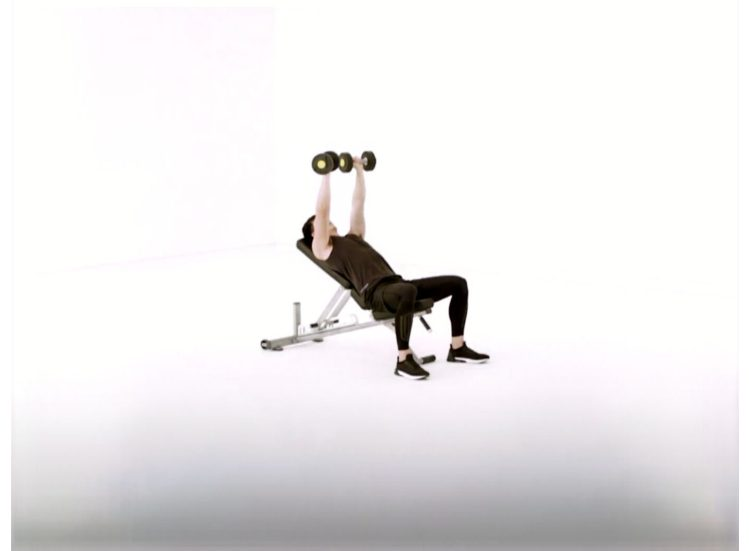
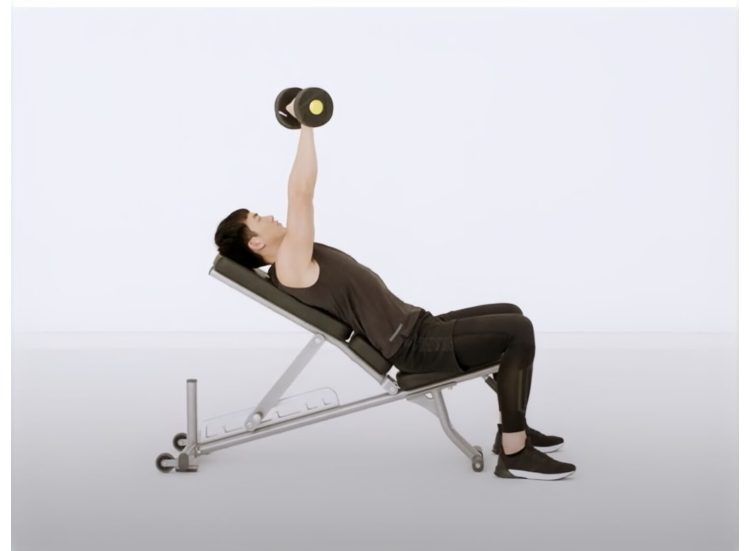
feat(fitness): 五项改进——①图片精选为≤4张（2角度×高低点）②播放器展示全量要点+锻炼部位 ③新增上个动作按钮 ④组间休息秒表化可跳过+组进度圆点 ⑤热身拉伸按原文件补全细化

diff --git a/templates/fitness.html b/templates/fitness.html
@@ -28,9 +28,16 @@
 #animCv{ width:min(90vw,420px); height:300px; background:#1e2236; border-radius:14px; }
 #animImg{ width:min(90vw,420px); height:300px; object-fit:contain; background:#fff; border-radius:14px; display:none; transition:opacity .25s; }
 .p-exname{ font-size:22px; font-weight:700; margin:10px 0 2px; }
+.p-muscle{ font-size:14px; color:#8fd3ff; margin-bottom:2px; }
 .p-setinfo{ font-size:15px; color:#aab; }
+.p-dots{ display:flex; gap:6px; margin:4px 0; }
+.p-dots i{ width:12px; height:12px; border-radius:50%; background:#3a4066; }
+.p-dots i.done{ background:#7ee2a8; }
+.p-dots i.cur{ background:#ffd66b; }
 .p-big{ font-size:56px; font-weight:800; font-variant-numeric:tabular-nums; margin:2px 0; color:#ffd66b; }
-.p-tip{ max-width:520px; font-size:13.5px; color:#cdd3f0; background:#232842; border-radius:8px; padding:8px 12px; margin:6px 0; min-height:38px; text-align:center; }
+.p-tip{ max-width:520px; width:min(92vw,520px); font-size:13.5px; color:#cdd3f0; background:#232842; border-radius:8px; padding:10px 14px; margin:6px 0; max-height:150px; overflow-y:auto; text-align:left; line-height:1.9; }
+.p-tip b{ color:#8fd3ff; }
+.p-tip .warn{ color:#ffb4b4; }
 .p-controls{ display:flex; gap:10px; margin:10px 0; flex-wrap:wrap; justify-content:center; }
 .p-controls button{ padding:10px 20px; border:none; border-radius:10px; font-size:15px; cursor:pointer; background:var(--brand); color:#fff; }
 .p-controls button.ghost{ background:#3a4066; }
@@ -68,7 +75,9 @@
 <!-- 跟练播放器 -->
 <div id="player">
     <div class="p-exname" id="pName"></div>
+    <div class="p-muscle" id="pMuscle"></div>
     <div class="p-setinfo" id="pSet"></div>
+    <div class="p-dots" id="pDots"></div>
     <canvas id="animCv" width="840" height="600"></canvas>
     <img id="animImg" alt="动作演示">
     <div class="p-big" id="pBig"></div>
@@ -76,6 +85,7 @@
     <div class="p-tip" id="pTip"></div>
     <div class="p-next" id="pNext"></div>
     <div class="p-controls">
+        <button class="ghost" id="pPrev">« 上个动作</button>
         <button class="ghost" id="pPause">⏸ 暂停</button>
         <button id="pDone">✓ 完成本组</button>
         <button class="ghost" id="pSkip">跳过动作 »</button>
@@ -210,7 +220,7 @@ var TMPL={
     pallof:     {view:'side',frames:[{hipH:1,torso:4,thigh:0,shin:6,arm:60,fore:80},{hipH:1,torso:4,thigh:0,shin:6,arm:88,fore:4}]}
 };
 /* 官方 3D 演示图（Keep 截图帧，static/img/fitness/），有图的动作优先用图，没有的回退火柴人 */
-var IMGCOUNT={bench:3,incline:5,press:4,lat:6,pushdown:5,plank:1,sideplank:1,facepull:4,
+var IMGCOUNT={bench:3,incline:4,press:4,lat:4,pushdown:4,plank:1,sideplank:1,facepull:4,
               curl:4,hammer:4,squat:2,rdl:2,lunge:4,hipthrust:2,calf:2,crunch:4,legraise:2,pallof:4};
 var imgTimer=null, imgFrame=0, imgKey=null;
 function startImgCycle(key){
@@ -252,8 +262,26 @@ function animLoop(){
 
 /* ================= 计划数据（摘自训练计划文档） =================
  * sets 组数, reps "8-10" 或 time 秒（计时类）, rest 组间休息秒, tmpl 动画模板 */
+var WARMUP_COMMON={
+  list:['跑步机快走 5 分钟（坡度 3–5、速度 5–6 km/h），微微出汗即可',
+        '关节活动：肩环绕 ×10、手臂画圈 ×10、髋部环绕 ×10、手腕与踝关节各活动 20 秒',
+        '动态拉伸：弓步转体每侧 ×5、站姿体侧屈每侧 ×5（训练前不要静态压腿，会降低力量输出）',
+        '目标肌群预组：当天第一个动作用空杆或 50% 重量做 1–2 组 × 10 次，再进入正式组'],
+  pits:['不要跳过热身直接上大重量——冬季或早晨肌肉关节温度低，受伤概率明显上升',
+        '热身不是训练，预组做到"身体热起来"就停，不要提前消耗体力',
+        '完成通用热身后，接着做当天的课前针对性预热，再进入正式组']};
 var DAYS=[
-{ id:'push', name:'周一 · 推日', sub:'胸 / 肩前中束 / 三头 + 核心', warm:'课前预热：肩环绕×10、弹力带肩外旋×15、弓步转体每侧×5、空杆卧推×15', cool:'课后拉伸：门框胸肌拉伸、肩前束拉伸、过头三头拉伸、眼镜蛇式腹部拉伸（每个 20–30 秒 × 2 组）', exs:[
+{ id:'push', name:'周一 · 推日', sub:'胸 / 肩前中束 / 三头 + 核心',
+  warmL:['肩部激活：肩环绕 ×10，再做徒手或弹力带肩外旋 ×15——推类动作对肩关节压力大，肩袖必须先唤醒',
+         '胸椎活动：弓步转体每侧 ×5，让上背部能挺得起来',
+         '预组：空杆卧推 ×15，再用正式重量的 50% 做 ×8，然后才进入正式组'],
+  coolL:['门框胸肌拉伸：前臂抵住门框或龙门架立柱，身体缓慢向前转，感受胸部牵拉',
+         '肩前束拉伸：双手在背后交扣，挺胸、手臂缓慢上抬',
+         '过头三头拉伸：一手屈肘放到颈后，另一手轻压肘部，感受手臂后侧牵拉',
+         '腹部拉伸：俯卧撑起上半身（眼镜蛇式），放松腹直肌'],
+  coolP:['拉伸到"有明显牵拉感"即可，不要弹震式下压、更不要追求疼痛',
+         '全程保持自然呼吸，憋气会让肌肉更紧张',
+         '静态拉伸只在训练后做——训练前做反而会降低力量表现'], exs:[
     {name:'平板杠铃卧推', imgs:'bench', tmpl:'bench', sets:4, reps:'8-10', rest:105, focus:'胸大肌整体，附带前肩、三头', keep:'杠铃平板卧推',
      tips:['眼睛位于杠铃正下方，双脚踩实、臀部贴凳','握距略宽于肩，重量压掌根','起杠先沉肩收紧肩胛，全程不松','下放到乳头附近，肘与躯干 45–60°','推起呼气，顶端不锁死肘'],
      pits:['手腕后折是腕痛主因','肩胛松开肩前送 = 肩痛头号原因','弹胸借力、臀部离凳就减重','无人保护不上极限重量，换史密斯架']},
@@ -279,7 +307,16 @@ var DAYS=[
      tips:['肘在肩正下方，身体侧向一条线','髋部上顶不下沉','两侧时间一致，弱侧先做'],
      pits:['髋下沉 → 侧腹不受力','身体前后倒 → 先屈膝版','支撑侧耸肩']}
 ]},
-{ id:'pull', name:'周三 · 拉日', sub:'背 / 肩后束 / 二头 + 核心', warm:'课前预热：肩胛引体×8–10、猫式伸展×8、轻重量高位下拉×12', cool:'课后拉伸：背阔肌拉伸、上背"抱自己"拉伸、二头拉伸、婴儿式 30 秒', exs:[
+{ id:'pull', name:'周三 · 拉日', sub:'背 / 肩后束 / 二头 + 核心',
+  warmL:['肩胛引体：吊在引体杆上手臂保持伸直，只做肩胛骨的下沉和上提 ×8–10——先学会"沉肩启动"，下拉和划船的质量都靠它',
+         '猫式伸展 ×8，活动脊柱，为俯身划船做准备',
+         '预组：轻重量高位下拉 1–2 组 ×12，找到背部发力感再加重'],
+  coolL:['背阔肌拉伸：单手扶住龙门架立柱，身体向后坐、向对侧倾，感受腋下到腰侧的牵拉',
+         '上背拉伸：双臂前伸"抱住自己"，肩胛骨尽量撑开，低头含胸',
+         '二头肌拉伸：手臂向后伸直扶住固定物、掌心向下，身体缓慢前转',
+         '婴儿式：跪坐、双臂前伸贴地，放松下背 30 秒'],
+  coolP:['拉伸到"有明显牵拉感"即可，不要弹震、不要忍痛硬压',
+         '婴儿式时腰部若被压得不适，可把双膝分开、臀部不必坐到底'], exs:[
     {name:'高位下拉', tmpl:'pulldown', sets:4, reps:'8-12', rest:105, focus:'背阔肌，加宽后背', keep:'高位下拉',
      tips:['大腿卡稳挡垫，握距约肩宽 1.5 倍','先沉肩再用背发力拉至锁骨上方','后仰不超过 15°，回放 2–3 秒','进阶可用辅助引体替代 1–2 组'],
      pits:['后仰甩成坐姿划船 → 背刺激减半','拉到颈后坚决不做','不沉肩纯用手臂拽','回放完全松掉']},
@@ -305,7 +342,18 @@ var DAYS=[
      tips:['髋部上顶不下沉','两侧时间一致，弱侧先做'],
      pits:['髋下沉是最常见错误','支撑侧耸肩']}
 ]},
-{ id:'legs', name:'周五 · 腿 + 核心', sub:'股四头 / 臀 / 腘绳 / 小腿 / 腹', warm:'课前预热：髋部环绕×10、弓步压髋每侧×8、徒手深蹲×15、臀桥×12、空杆深蹲×10', cool:'课后拉伸：股四头拉伸、体前屈腘绳拉伸、仰卧 4 字臀拉、推墙小腿拉伸、眼镜蛇式（每个 20–30 秒 × 2 组）', exs:[
+{ id:'legs', name:'周五 · 腿 + 核心', sub:'股四头 / 臀 / 腘绳 / 小腿 / 腹',
+  warmL:['髋部激活：髋部环绕 ×10、弓步压髋每侧 ×8——深蹲硬拉都需要髋关节充分打开',
+         '臀肌唤醒：徒手深蹲 ×15、臀桥 ×12，先让臀大肌"上线"，避免深蹲时全靠大腿前侧',
+         '预组：空杆深蹲 1–2 组 ×10，确认动作轨迹和膝盖方向后再加重'],
+  coolL:['站姿股四头肌拉伸：单腿后勾、手抓脚踝，膝盖并拢朝下，扶墙保持平衡，每侧',
+         '腘绳肌拉伸：站姿或坐姿体前屈，腰背挺直、从髋部折叠，不要弓腰硬够脚尖',
+         '仰卧"4 字"臀部拉伸：一侧脚踝搭在另一侧膝盖上，双手抱大腿拉近胸口，每侧',
+         '推墙小腿拉伸：前腿弓步、后腿伸直脚跟踩地，身体前倾推墙，每侧',
+         '眼镜蛇式腹部拉伸 20–30 秒，放松卷腹和举腿后的腹肌'],
+  coolP:['练腿日第二天的延迟性酸痛（DOMS）通常最明显，认真做完这组拉伸能明显缓解，不要省略',
+         '股四头拉伸时膝盖不要向外撇，双腿膝盖保持并拢',
+         '所有拉伸缓慢进入、保持呼吸，牵拉感明显但不疼痛'], exs:[
     {name:'杠铃深蹲', imgs:'squat', tmpl:'squat', sets:4, reps:'8-10', rest:120, focus:'股四头肌、臀大肌、腘绳肌、核心', keep:'杠铃深蹲',
      tips:['杠置斜方肌上，挺胸收紧上背再起杠','脚略宽于肩，脚尖外八 15–30°','先吸气入腹绷核心，髋膝同时启动','大腿至少与地面平行，膝盖对准脚尖','站起全脚掌蹬地、呼气过黏滞点'],
      pits:['膝盖内扣 → 想"膝向外撑"','脚跟离地 → 重心放足中','弓腰 → 减重改善活动度','半程还加重 → 幅度优先','冲大重量装保护杠或史密斯架']},
@@ -336,7 +384,11 @@ var DAYS=[
 var curDay=0;
 function renderDay(){
     var D=DAYS[curDay], body=document.getElementById('dayBody');
-    var html='<div class="narrate" style="margin:0 0 10px"><b>🔥 热身</b>：'+D.warm+'<br><b>🧘 练后</b>：'+D.cool+'</div>';
+    function ul(arr){ return '<ul style="margin:4px 0 8px;padding-left:18px;line-height:1.9;font-size:13.5px">'+arr.map(function(t){return '<li>'+t+'</li>';}).join('')+'</ul>'; }
+    var html='<div class="subbox" style="margin-bottom:12px"><h3>🔥 训练前热身（通用 8–10 分钟 + 课前针对性预热）</h3>'
+        +'<b style="font-size:13px;color:#666">通用热身</b>'+ul(WARMUP_COMMON.list)
+        +'<b style="font-size:13px;color:#666">课前针对性预热（'+D.name+'）</b>'+ul(D.warmL)
+        +'<b style="font-size:13px;color:#c26">避坑提醒</b>'+ul(WARMUP_COMMON.pits)+'</div>';
     D.exs.forEach(function(e,i){
         html+='<div class="ex-card" data-i="'+i+'"><div class="ex-head"><span class="num">'+(i+1)+'</span>'
             +'<span class="nm">'+e.name+'</span>'
@@ -345,6 +397,8 @@ function renderDay(){
             +'<div class="ex-detail"><h4>动作要点</h4><ul>'+e.tips.map(function(t){return '<li>'+t+'</li>';}).join('')+'</ul>'
             +'<h4>避坑提醒</h4><ul>'+e.pits.map(function(t){return '<li>'+t+'</li>';}).join('')+'</ul></div></div>';
     });
+    html+='<div class="subbox"><h3>🧘 课后拉伸放松（每个动作 20–30 秒 × 2 组）</h3>'
+        +ul(D.coolL)+'<b style="font-size:13px;color:#c26">避坑提醒</b>'+ul(D.coolP)+'</div>';
     body.innerHTML=html;
     body.querySelectorAll('.ex-head').forEach(function(h){
         h.onclick=function(){ h.parentNode.classList.toggle('open'); };
@@ -442,7 +496,9 @@ function startExercise(){
     var e=curEx();
     document.getElementById('player').classList.remove('resting');
     document.getElementById('pName').textContent=e.name;
+    document.getElementById('pMuscle').textContent='🎯 锻炼部位：'+e.focus;
     document.getElementById('pRestLabel').textContent='';
+    document.getElementById('pDone').textContent='✓ 完成本组';
     var cv=document.getElementById('animCv'), im=document.getElementById('animImg');
     if(e.imgs && IMGCOUNT[e.imgs]){
         animOn=false; cv.style.display='none'; im.style.display='block';
@@ -451,7 +507,7 @@ function startExercise(){
         stopImgCycle(); im.style.display='none'; cv.style.display='block';
         startAnim(e.tmpl);
     }
-    tipRotate(e);
+    renderTips(e);
     var nxt=DAYS[PL.day].exs[PL.ex+1];
     document.getElementById('pNext').textContent=nxt?('下一个：'+nxt.name+'　'+nxt.sets+' 组 × '+(nxt.time?nxt.time+'秒':nxt.reps+'次')):'这是今天最后一个动作';
     PL.phase='work';
@@ -465,23 +521,26 @@ function startExercise(){
     }
     updateSetInfo();
 }
+function renderDots(){
+    var e=curEx(), d=document.getElementById('pDots'), html='';
+    for(var i=1;i<=e.sets;i++)
+        html+='<i class="'+(i<PL.set?'done':(i===PL.set?'cur':''))+'"></i>';
+    d.innerHTML=html;
+}
+function renderTips(e){
+    var h='<b>动作要点</b><br>'+e.tips.map(function(t,i){return (i+1)+'. '+t;}).join('<br>')
+         +'<br><b style="color:#ffb4b4">避坑提醒</b><br>'
+         +e.pits.map(function(t){return '<span class="warn">⚠ '+t+'</span>';}).join('<br>');
+    document.getElementById('pTip').innerHTML=h;
+}
 function updateSetInfo(){
     var e=curEx();
-    var s='第 '+PL.set+' / '+e.sets+' 组';
+    var s='动作 '+(PL.ex+1)+'/'+DAYS[PL.day].exs.length+'　·　第 '+PL.set+' / '+e.sets+' 组';
     if(e.bothSides) s+='（'+(PL.side?'右侧':'左侧')+'）';
     document.getElementById('pSet').textContent=s;
+    renderDots();
 }
 function setBig(t){ document.getElementById('pBig').textContent=t; }
-function tipRotate(e){
-    clearInterval(PL.tipTimer);
-    PL.tipIdx=0;
-    var show=function(){
-        var pool=e.tips.concat(e.pits.map(function(p){return '⚠ '+p;}));
-        document.getElementById('pTip').textContent=pool[PL.tipIdx%pool.length];
-        PL.tipIdx++;
-    };
-    show(); PL.tipTimer=setInterval(show,5000);
-}
 function tick(){
     clearInterval(PL.timer);
     setBig(fmtT(PL.remain));
@@ -532,7 +591,7 @@ function nextExercise(){
         setBig('🎉'); document.getElementById('pName').textContent='今天的训练完成！';
         document.getElementById('pSet').textContent='';
         document.getElementById('pRestLabel').textContent='';
-        document.getElementById('pTip').textContent='别忘记课后拉伸：'+DAYS[PL.day].cool;
+        document.getElementById('pTip').innerHTML='<b>别忘记课后拉伸（每个 20–30 秒 × 2 组）</b><br>'+DAYS[PL.day].coolL.join('<br>');
         document.getElementById('pNext').textContent='';
         speak('今天的训练全部完成，记得做课后拉伸');
     }
@@ -540,10 +599,22 @@ function nextExercise(){
 document.getElementById('btnStart').onclick=startPlayer;
 document.getElementById('btnTestVoice').onclick=testVoice;
 document.getElementById('pDone').onclick=function(){
-    if(PL.phase!=='work') return;
+    if(PL.phase==='rest'){          // 跳过组间休息，直接开始下一组
+        clearInterval(PL.timer);
+        PL.set++;
+        startExercise();
+        return;
+    }
     clearInterval(PL.timer);
     speak('完成');
     finishSet();
+};
+document.getElementById('pPrev').onclick=function(){
+    if(PL.ex<=0) { speak('已经是第一个动作'); return; }
+    clearInterval(PL.timer);
+    PL.ex--; PL.set=1; PL.side=0;
+    speak('返回，'+curEx().name);
+    startExercise();
 };
 document.getElementById('pSkip').onclick=function(){
     clearInterval(PL.timer);
